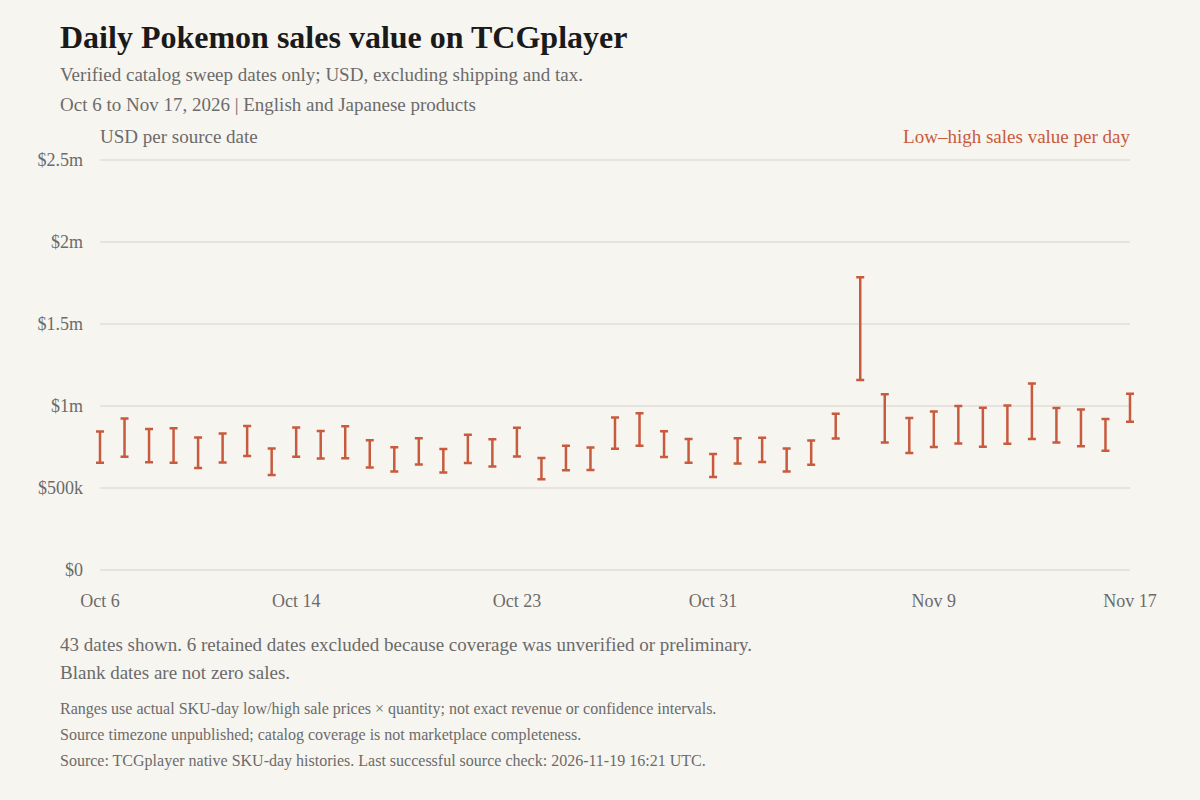
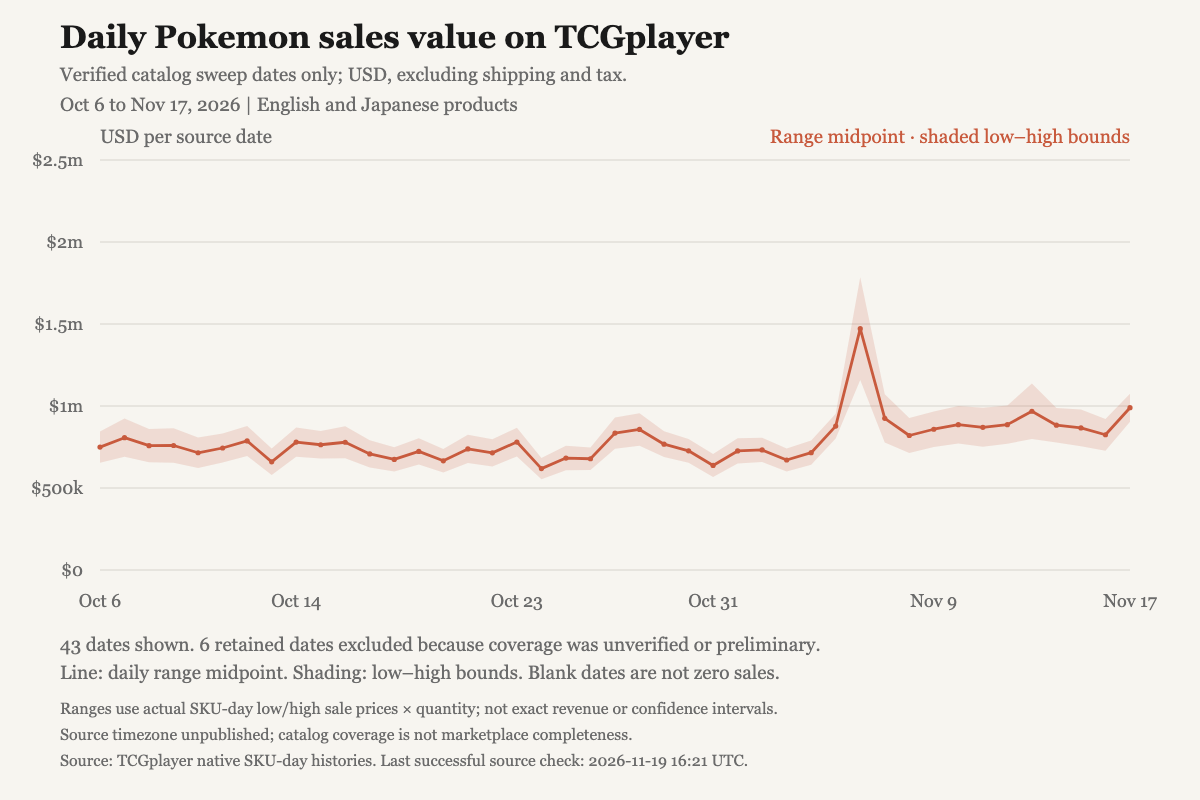
Publish sales trend line and preserve full historical archive

diff --git a/src/sales-figure.js b/src/sales-figure.js
@@ -42,7 +42,8 @@ export function salesPlotRows(rows, coverage) {
       : !available ? 'missing_prices' : priced < units ? 'partial_prices' : 'historical';
     const plotted = status === 'historical';
     return { ...row, plot_status: status,
-      plot_lower_usd: plotted ? low : '', plot_upper_usd: plotted ? high : '' };
+      plot_lower_usd: plotted ? low : '', plot_upper_usd: plotted ? high : '',
+      plot_midpoint_usd: plotted ? low + (high - low) / 2 : '' };
   }).sort((a,b) => a.date_source.localeCompare(b.date_source));
 }
 
@@ -72,19 +73,40 @@ export function salesFigure(rows, coverage, background = '#F7F5F0') {
   const caption = 'Daily observed Pokemon item-value bounds on TCGplayer, across English and Japanese catalog products. ' +
     'Bounds sum SKU-day quantities multiplied by actual low/high unit sale prices; they are not a confidence interval or exact revenue. ' +
     'Shipping and tax are excluded. Only closed source dates supported by verified catalog sweeps and complete price coverage are plotted. ' +
-    'Each vertical mark spans one day’s low and high bounds; days are not interpolated. Unverified dates and incomplete prices remain in the CSV. ' +
+    'The line joins daily range midpoints, not estimated revenue; shading spans the actual low/high bounds. ' +
+    'Only consecutive verified dates are joined; gaps are not interpolated. Unverified dates and incomplete prices remain in the CSV. ' +
     'A catalog sweep is not a certified marketplace total.';
-  const alt = `Pokemon sales value${eligible.length ? ` from ${first} to ${last}` : ': no dates with verified sweeps'}. ${latestNote} ${coverageNote} ${missing} dates omitted for incomplete prices.`;
+  const alt = `Pokemon sales value${eligible.length ? ` from ${first} to ${last}` : ': no dates with verified sweeps'}. A line joins range midpoints with a shaded low-high band, not confidence intervals. Missing or unverified dates break the line and band. ${latestNote} ${coverageNote} ${missing} dates omitted for incomplete prices.`;
   let marks = '';
   for (let tick = 0; tick <= 5; tick++) {
     const value = step * tick;
     marks += `<path d="M100,${y(value)}H1130" class="grid"/>` +
       text(83,y(value) + 6,usd(value),'class="axis" text-anchor="end"');
   }
-  for (const row of visible) {
-    const left = x(row.date_source), low = y(row.plot_lower_usd), high = y(row.plot_upper_usd);
-    marks += `<path data-series="daily-range" d="M${left},${low}V${high}M${left - 4},${low}h8M${left - 4},${high}h8" fill="none" stroke="#C85A3D" stroke-width="2.5"><title>${escape(`${row.date_source}: ${usd(row.plot_lower_usd)} to ${usd(row.plot_upper_usd)}`)}</title></path>`;
+  let segment = [];
+  const point = (row, field) => `${x(row.date_source)},${y(row[field])}`;
+  const flush = () => {
+    if (!segment.length) return;
+    if (segment.length > 1) {
+      const bounds = [...segment.map(row => point(row,'plot_upper_usd')),
+        ...[...segment].reverse().map(row => point(row,'plot_lower_usd'))];
+      marks += `<polygon data-series="daily-band" points="${bounds.join(' ')}" fill="#C85A3D" fill-opacity="0.16"/>`;
+      marks += `<polyline data-series="daily-midpoint" points="${segment.map(row => point(row,'plot_midpoint_usd')).join(' ')}" fill="none" stroke="#C85A3D" stroke-width="2.8" stroke-linejoin="round" stroke-linecap="round"/>`;
+    } else {
+      const row = segment[0];
+      marks += `<path data-series="isolated-range" d="M${point(row,'plot_lower_usd')}V${y(row.plot_upper_usd)}" fill="none" stroke="#C85A3D" stroke-opacity="0.5" stroke-width="2"/>`;
+    }
+    for (const row of segment) {
+      marks += `<circle data-series="daily-observation" cx="${x(row.date_source)}" cy="${y(row.plot_midpoint_usd)}" r="2.6" fill="#C85A3D"><title>${escape(`${row.date_source}: ${usd(row.plot_lower_usd)} to ${usd(row.plot_upper_usd)}; range midpoint ${usd(row.plot_midpoint_usd)}`)}</title></circle>`;
+    }
+    segment = [];
+  };
+  for (const row of data) {
+    if (row.plot_lower_usd === '' || segment.length &&
+        Date.parse(row.date_source) - Date.parse(segment.at(-1).date_source) !== 86400000) flush();
+    if (row.plot_lower_usd !== '') segment.push(row);
   }
+  flush();
   if (!visible.length) marks += text(615,355,'No dates with verified sweep and price coverage; no zero sales inferred.',
     'class="muted" text-anchor="middle"');
   const axisDates = data.filter(row => row.date_source >= first && row.date_source <= last);
@@ -105,10 +127,10 @@ ${text(60,111,eligible.length
   ? `${first === last ? dateLabel(last) : `${dateLabel(first)} to ${dateLabel(last)}`}, ${last.slice(0,4)} | English and Japanese products`
   : 'No closed dates with verified catalog coverage.','class="muted"')}
 ${text(100,143,'USD per source date','class="muted"')}
-${text(1130,143,'Low–high sales value per day','text-anchor="end" style="fill:#C85A3D"')}
+${text(1130,143,'Range midpoint · shaded low–high bounds','text-anchor="end" style="fill:#C85A3D"')}
 ${marks}
 ${text(60,651,latestNote,'class="muted"')}
-${text(60,679,'Blank dates are not zero sales.','class="muted"')}
+${text(60,679,'Line: daily range midpoint. Shading: low–high bounds. Blank dates are not zero sales.','class="muted"')}
 ${text(60,714,'Ranges use actual SKU-day low/high sale prices × quantity; not exact revenue or confidence intervals.','class="note"')}
 ${text(60,740,`${missing ? `${missing} verified dates omitted for incomplete prices. ` : ''}Source timezone unpublished; catalog coverage is not marketplace completeness.`,'class="note"')}
 ${text(60,766,`Source: TCGplayer native SKU-day histories. Last successful source check: ${checked} UTC.`,'class="note"')}

diff --git a/test/remote.test.js b/test/remote.test.js
@@ -1,11 +1,57 @@
 import test from 'node:test';
 import assert from 'node:assert/strict';
-import { mkdtempSync, rmSync } from 'node:fs';
+import { mkdtempSync, readFileSync, rmSync } from 'node:fs';
 import { tmpdir } from 'node:os';
 import { join } from 'node:path';
 import { Store } from '../src/store.js';
 import { publicCheckpoint, collectRemote, retryFailedJobs } from '../src/remote.js';
 import { saveMonthHistory } from '../src/volume.js';
+import { exportSnapshot } from '../src/publish.js';
+import { dailyCsv } from '../src/figures.js';
+import { gunzipSync } from 'node:zlib';
+
+test('historical backfills survive newer rolling windows, public checkpoints and complete downloads', async t => {
+  const directory = mkdtempSync(join(tmpdir(), 'pokemon-retained-history-'));
+  t.after(() => rmSync(directory, { recursive: true }));
+  const source = join(directory,'source.sqlite'), destination = join(directory,'public.sqlite');
+  const observed = '2026-11-19T16:00:00.000Z';
+  const store = new Store(source);
+  store.db.prepare(`INSERT INTO catalog_products VALUES
+    (1,3,604,'Fixture set','Charizard','','','','','["Charizard"]','','build',1)`).run();
+  try {
+    for (const end of ['2019-01-31','2026-11-19','2017-05-31']) {
+      const payload = { count: 1, result: [{ skuId: '101', condition: 'Near Mint',
+        variant: 'Normal', language: 'English', buckets: Array.from({length:30},(_,index) => ({
+          bucketStartDate: new Date(Date.parse(end) - index * 86400000).toISOString().slice(0,10),
+          quantitySold: index === 0 ? 3 : 0, transactionCount: index === 0 ? 2 : 0,
+          lowSalePrice: '2', highSalePrice: '3',
+        })) }] };
+      saveMonthHistory(store,1,payload,observed);
+    }
+    assert.equal(publicCheckpoint(source,destination).sku_buckets,90);
+  } finally { store.close(); }
+  const restored = new Store(destination);
+  try {
+    const output = join(directory,'reports');
+    const coverage = await exportSnapshot(restored,output,new Date('2026-11-19T17:00:00Z'));
+    assert.equal(coverage.first_source_date,'2017-05-02');
+    assert.equal(coverage.last_source_date,'2026-11-19');
+    assert.equal(coverage.sku_buckets,90);
+    const rows = dailyCsv(join(output,'daily-trading.csv'));
+    assert.equal(rows.length,90);
+    assert.deepEqual(rows.filter(row => Number(row.units)>0).map(row => row.date_source),
+      ['2017-05-31','2019-01-31','2026-11-19']);
+    for (const row of rows.filter(row => Number(row.units)>0)) {
+      assert.equal(Number(row.priced_sales_lower_usd),6);
+      assert.equal(Number(row.priced_sales_upper_usd),9);
+    }
+    const full = gunzipSync(readFileSync(join(output,'daily-sku-volume.csv.gz'))).toString();
+    assert.equal(full.trimEnd().split(/\r?\n/).length,91);
+    assert.match(full,/2017-05-31/);
+    assert.match(full,/2019-01-31/);
+    assert.match(full,/2026-11-19/);
+  } finally { restored.close(); }
+});
 
 test('remote checkpoints preserve all public buckets and queue state but exclude local transactions and diagnostics', t => {
   const directory = mkdtempSync(join(tmpdir(), 'pokemon-remote-'));

diff --git a/test/sales-figure.test.js b/test/sales-figure.test.js
@@ -24,7 +24,7 @@ test('historical bounds preserve price gaps and omit the partial latest day', ()
   assert.deepEqual(figure.data.map(row => row.plot_status),
     ['historical','partial_prices','historical','partial_day']);
   assert.equal(figure.data[1].plot_lower_usd,'');
-  assert.equal((figure.svg.match(/data-series="daily-range"/g) ?? []).length,2);
+  assert.equal((figure.svg.match(/data-series="daily-observation"/g) ?? []).length,2);
   assert.equal(figure.data[3].plot_lower_usd, '');
   assert.ok(!figure.svg.includes('2026-11-04:'));
   assert.ok(!figure.svg.includes('<polygon'));
@@ -34,10 +34,32 @@ test('historical bounds preserve price gaps and omit the partial latest day', ()
   assert.ok(!/NaN|Infinity/.test(figure.svg));
 });
 
-test('absent dates leave a gap between consistent daily range marks', () => {
+test('absent dates leave a gap instead of joining unobserved days', () => {
   const { svg } = salesFigure([rows[0],rows[2],rows[3]],coverage);
   assert.doesNotMatch(svg, /<polygon|<polyline|2026-11-02:/);
-  assert.equal((svg.match(/data-series="daily-range"/g) ?? []).length,2);
+  assert.equal((svg.match(/data-series="isolated-range"/g) ?? []).length,2);
+});
+
+test('consecutive observed dates have a midpoint line and exact low-high band', () => {
+  const varied = rows.map((row,index) => ({ ...row,
+    priced_sales_lower_usd: 100 + index * 10, priced_sales_upper_usd: 120 + index * 20 }));
+  const { data, svg, caption } = salesFigure(varied,coverage);
+  assert.deepEqual(data.map(row => row.plot_midpoint_usd),[110,125,140,'']);
+  const polyline = svg.match(/data-series="daily-midpoint" points="([^"]+)"/)[1];
+  const polygon = svg.match(/data-series="daily-band" points="([^"]+)"/)[1];
+  const y = value => 570 - value / 250 * 410;
+  assert.equal(polyline, `100,${y(110)} 615,${y(125)} 1130,${y(140)}`);
+  assert.equal(polygon, `100,${y(120)} 615,${y(140)} 1130,${y(160)} 1130,${y(120)} 615,${y(110)} 100,${y(100)}`);
+  assert.doesNotMatch(svg,/data-series="isolated-range"/);
+  assert.match(caption,/midpoints, not estimated revenue/);
+});
+
+test('unverified dates split both the midpoint line and shaded bounds', () => {
+  const verified = { ...coverage, reporting_dates: ['2026-11-01','2026-11-03'] };
+  const { data, svg } = salesFigure(rows,verified);
+  assert.equal(data[1].plot_midpoint_usd,'');
+  assert.doesNotMatch(svg,/data-series="daily-midpoint"|data-series="daily-band"/);
+  assert.equal((svg.match(/data-series="isolated-range"/g) ?? []).length,2);
 });
 
 test('only verified, priced zero days plot at zero, while missing prices stay unavailable', () => {

diff --git a/README.md b/README.md
@@ -19,11 +19,12 @@ The catalog covers English and Japanese products; **sales coverage is still
 partial, not a certified total for the whole marketplace**.
 
 <p align="center">
-  <img src="reports/latest/sales-value.png" width="1200" alt="Daily Pokemon sales value: actual low-high price bounds on dates with verified catalog sweeps">
+  <img src="reports/latest/sales-value.png" width="1200" alt="Daily Pokemon sales value: range-midpoint line and shaded low-high bounds on verified catalog sweep dates">
 </p>
 
-Each vertical mark shows one day's item-value bounds from actual low/high SKU sale
-prices, **not exact revenue or a confidence interval**. Only closed dates with
+The line joins daily range midpoints; shading shows item-value bounds from actual
+low/high SKU sale prices, **not exact revenue or a confidence interval**. The
+midpoint is a visual summary of the bounds, not a revenue estimate. Only closed dates with
 verified catalog sweeps and complete price coverage are plotted. Missing and
 partial days are left out, not treated as zero.
 
@@ -34,6 +35,23 @@ The [complete daily trading CSV](reports/latest/daily-trading.csv) lists **units
 bought/sold, transaction counts and item-dollar value** for every retained date.
 A sale and its matching purchase are one trade, not two volumes; a sealed
 product counts as one unit, not the number of cards inside.
+
+### Historical archive
+
+The chart's date range does not limit the archive. Every retained source date is
+kept in SQLite, public checkpoints and the complete CSV downloads, including
+older dates without verified sweep or price coverage. New rolling-window
+collections update overlapping observations without dropping older ones;
+historical backfills have no chart-date cutoff.
+
+As audited on **November 19, 2026**, retained daily observations begin on
+**October 2, 2026**; the main chart begins on **October 6**, when verified sweep
+and complete price coverage first coincide. The connected collector reads the
+source's rolling 30-day daily history; no unlimited historical feed is connected.
+Earlier daily quantities
+or dollars cannot be reconstructed from market-price charts or coarser buckets.
+No earlier observations were found in the 86 published coverage snapshots audited.
+The project keeps accumulating history rather than trimming the archive to 30 days.
 
 Separately, the individual-sale archive retains actual timestamps, quantities
 and unit prices for four products. Its captured dollar totals are exact for

diff --git a/docs/methodology.md b/docs/methodology.md
@@ -191,17 +191,20 @@ exclude the separate, overlapping individual-sale archive.
 ### Monetary time-series chart
 
 `sales-value.svg` and `sales-value.png` plot the observed daily low/high
-item-dollar bounds. Only dates with prices for **all observed units** enter the
-terracotta historical band; missing/partially priced dates remain gaps.
-Explicit observed zero days remain zero. The same-day estimate is a separate
-blue interval, not a joined line implying a completed-day decline. The source
+item-dollar bounds. The terracotta line joins daily range midpoints, calculated
+as `(low + high) / 2`; the shaded band spans the actual low/high bounds. The
+midpoint is a visual summary, not an estimate of exact or expected revenue.
+Only closed dates with verified catalog sweeps and prices for **all observed units**
+are shown. The line and band join consecutive dates only; missing, unverified
+and partially priced dates remain gaps. Isolated observations retain a midpoint
+dot and vertical range. Explicit observed zero days remain zero. The source
 timezone is unpublished, so the latest retained source date is conservatively
 considered partial even when UTC has already rolled into the following day.
 These are changing historical
 coverage cohorts, not certified whole-market receipts or a confidence interval.
 
 The `-moe` SVG/PNG pair changes only the paper background. `sales-value.csv`
-retains every daily input, its plot status and the plotted bounds, including
+retains every daily input, its plot status, midpoint and plotted bounds, including
 omitted dates. `sales-value.json` contains the caption, alt text and SHA-256
 hashes of both complete source files and every chart/data output. All six
 assets are committed and included in the rolling release. `npm run figures`
